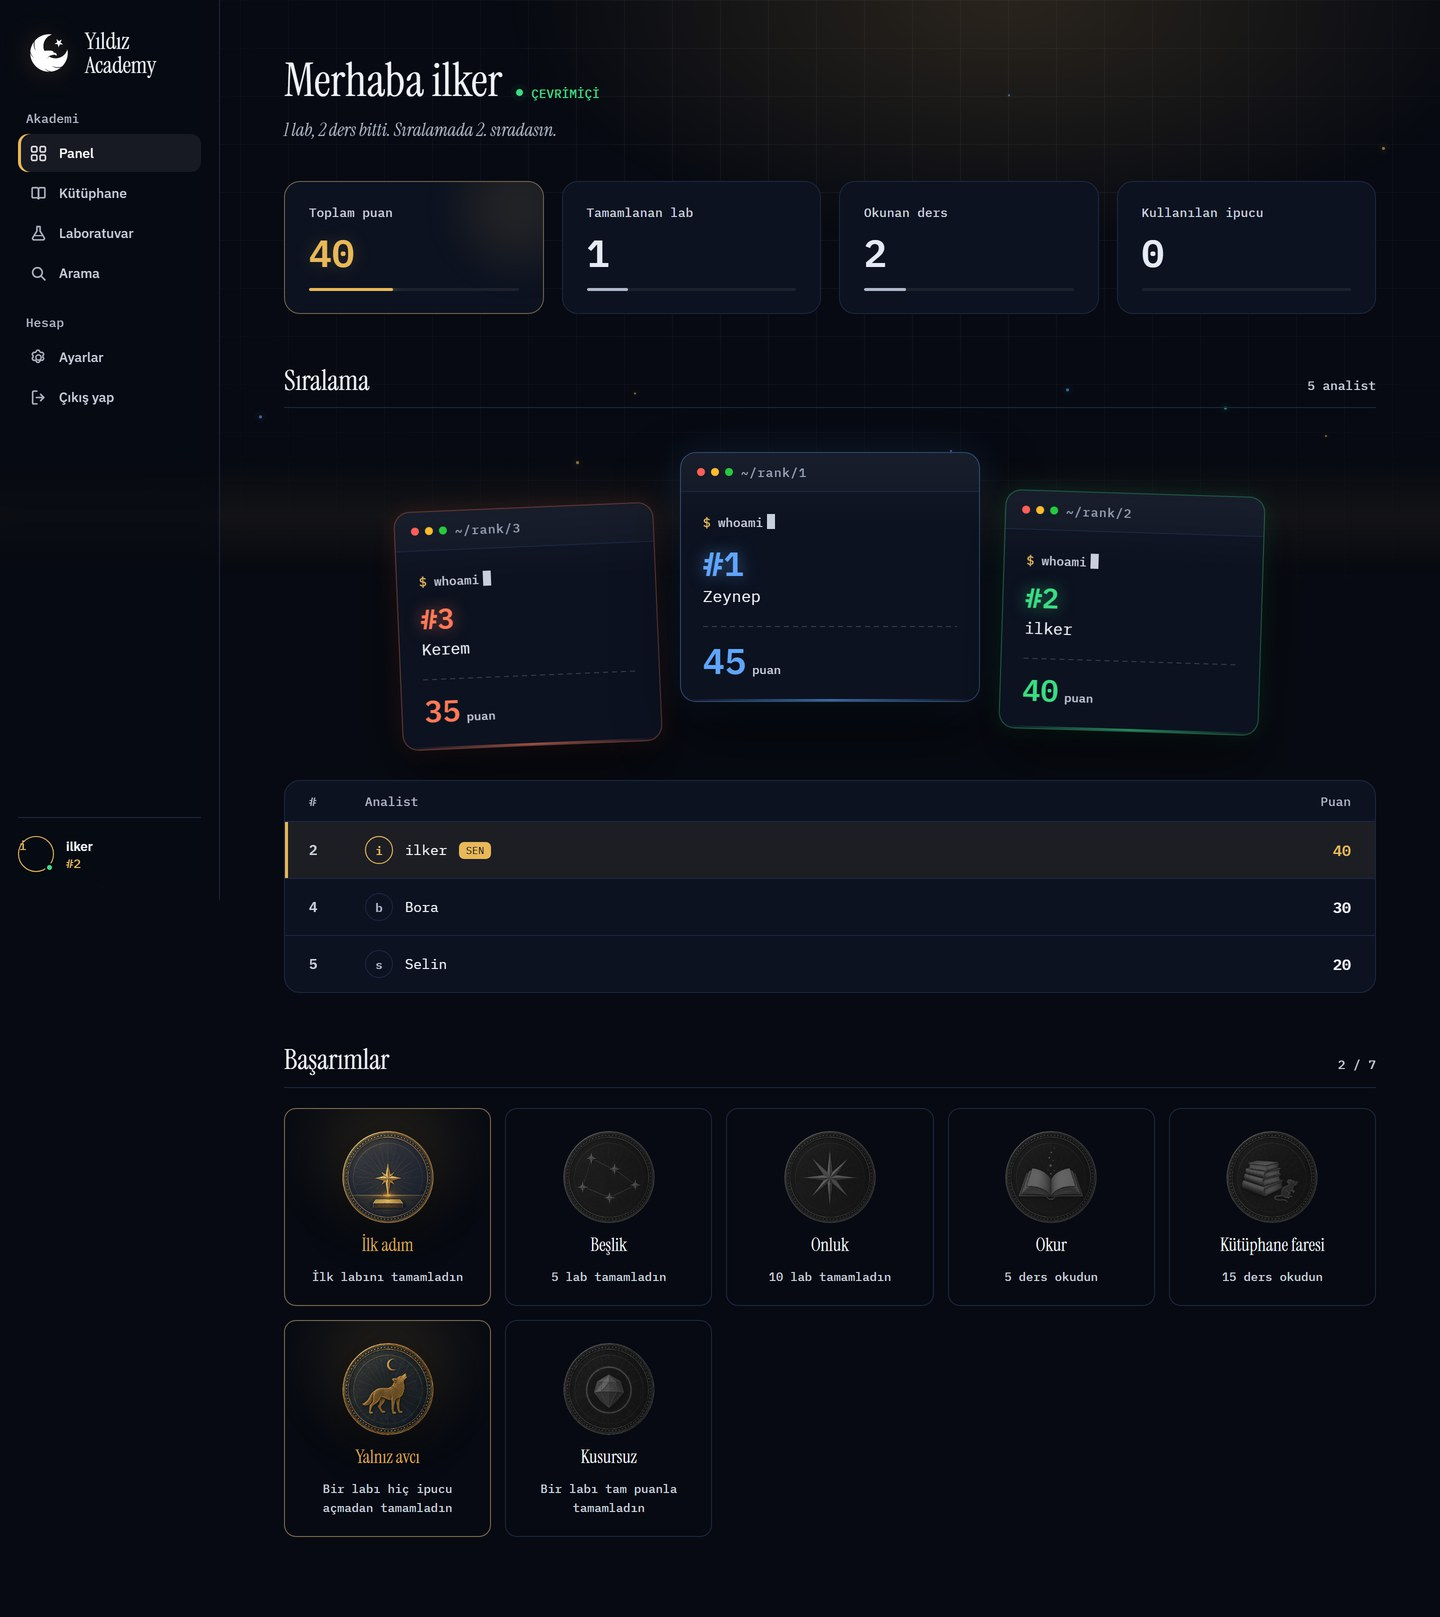
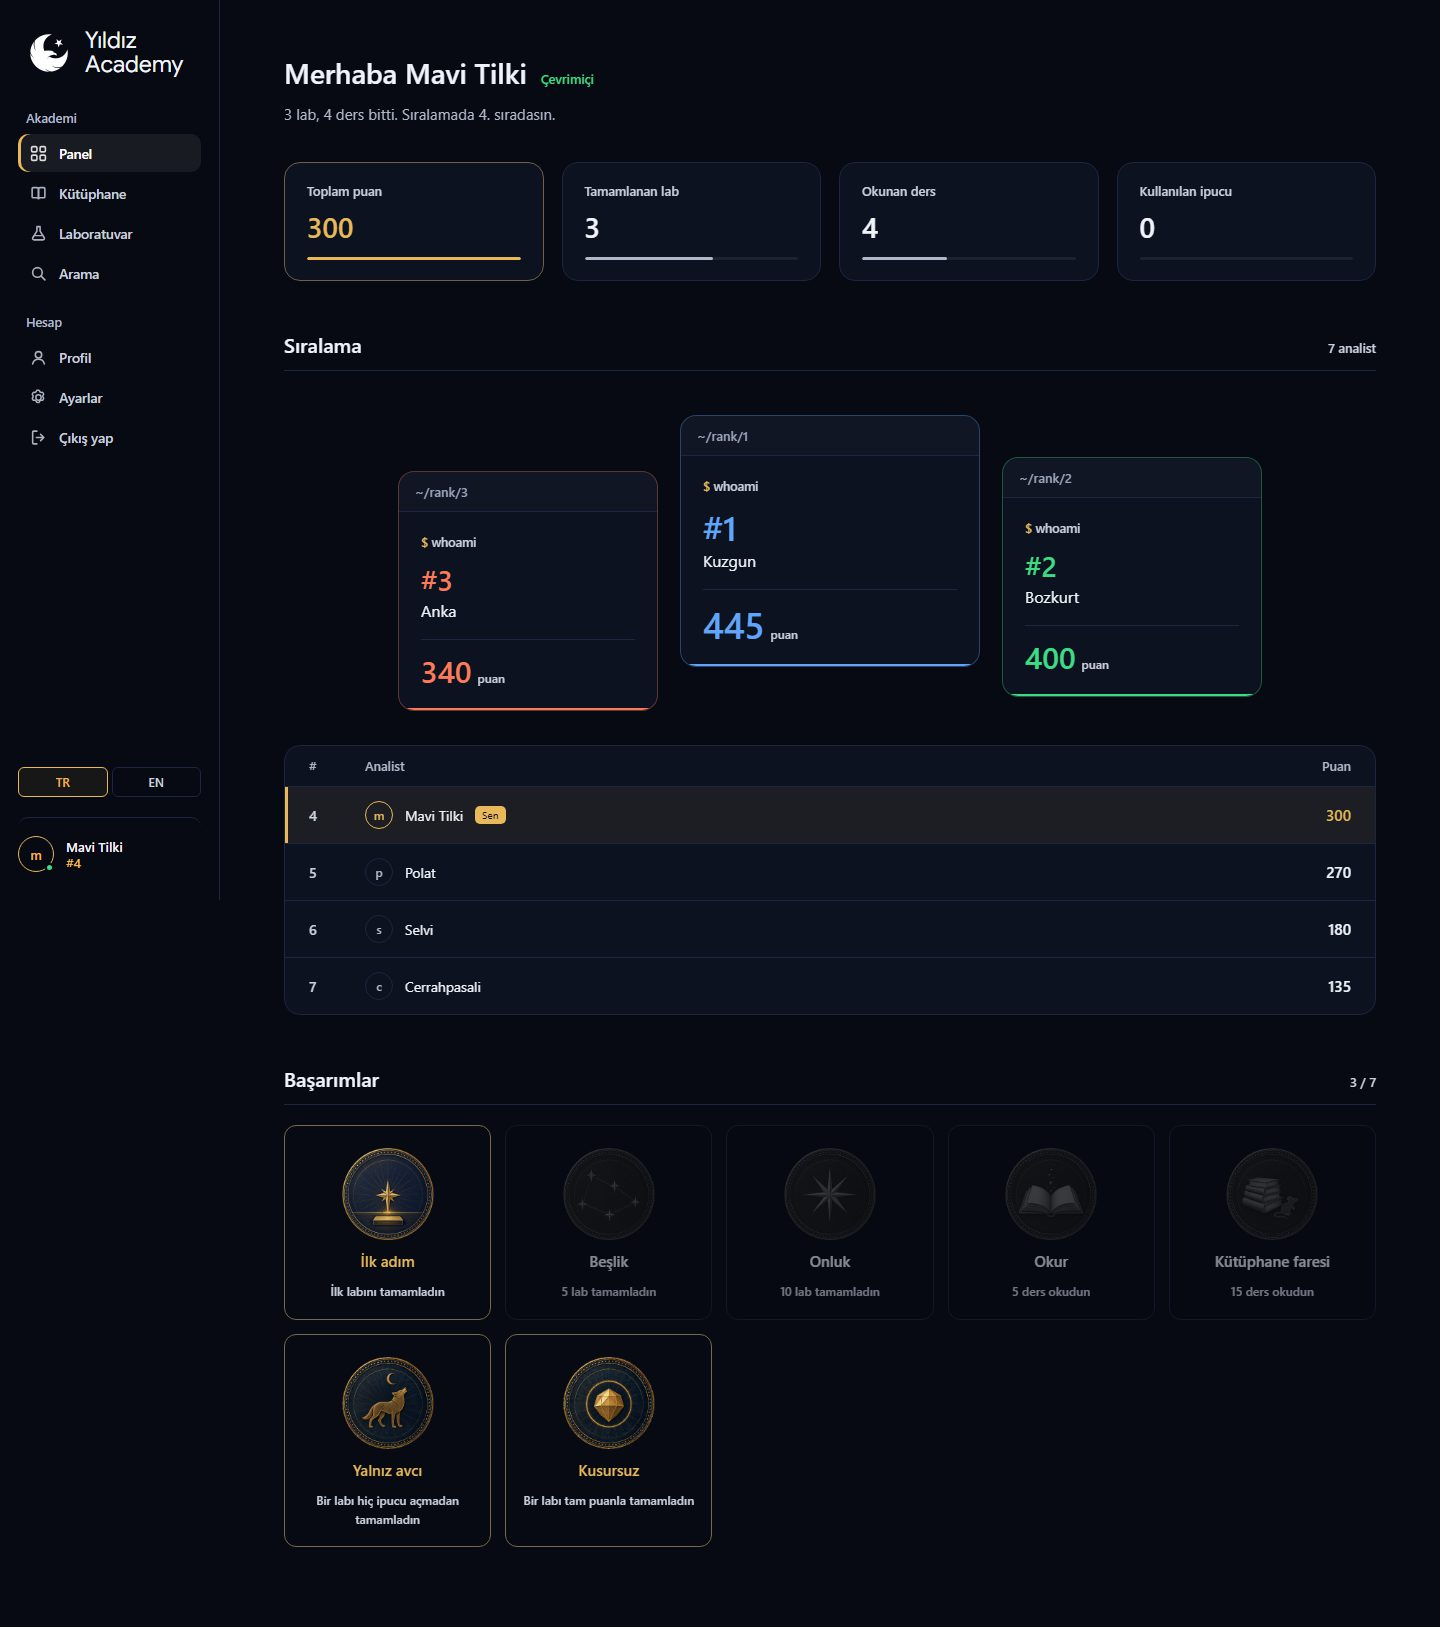
README ve ekran goruntuleri guncellendi

diff --git a/README.md b/README.md
@@ -11,18 +11,30 @@ arkasında.
 ![Açılış sayfası](ekran/hero.jpg)
 
 Panel kişiseldir: sayaçlar, sıralamadaki yerin ve kazanılmış mühürler. Ders ve
-lab listeleri buraya değil, kendi sayfalarına ait. Aşağıdaki görüntüdeki isimler
-ve puanlar örnek veridir.
+lab listeleri buraya değil, kendi sayfalarına ait. Görüntülerdeki isimler ve
+puanlar örnek veridir.
 
 ![Panel](ekran/panel.jpg)
+
+Her kullanıcının bir profil sayfası vardır: toplam puan, sıra, başarımlar ve
+tamamlanan laboratuvarlar. Sıralamadaki bir isme tıklayınca o kişinin profili
+açılır. Profil adresi sıralı bir numara değil, her kullanıcıya verilen rastgele
+bir kimliktir (`/profil/voVdffHgEPy8` gibi); adresler tahmin edilip tek tek
+gezilemez. E-posta profilde de görünmez.
+
+![Profil](ekran/profil.jpg)
+
+Arayüz Türkçe ve İngilizcedir. Dil sol menünün altından seçilir ve tarayıcıda
+saklanır; hata mesajları ve parola sıfırlama e-postası da seçilen dilde gelir.
 
 ## Yığın
 
 FastAPI · Jinja2 · SQLAlchemy 2 · SQLite · Argon2id · Vanilla JS
 
-Node çalışma zamanı bağımlılığı yoktur. `static/css/tokens.css` dosyası
-`design/tokens.json` içinden üretilmiştir ama üreteç depoda değil; token
-değişirse şu an CSS'i elle güncellemek gerekiyor.
+Node çalışma zamanı bağımlılığı yoktur. Giriş sonrası arayüzün renkleri ve
+yazı tipleri `static/css/tokens.css` içindedir ve elle düzenlenir.
+`design/tokens.json` ilk tasarımın token kaynağıdır; açılış sayfası bu setin
+karşılığı olan `landing-tokens.css` üzerinde çalışır.
 
 ## Kurulum
 
@@ -55,21 +67,25 @@ uvicorn app.main:app --reload
 
 Yönetici hesabı açılmadan `/academy/admin` kapısı çalışmaz.
 
+Uygulama açılırken veritabanı şemasını kendisi günceller: eski bir `yildiz.db`
+dosyasında eksik kolon ve tablo varsa ekler, elle `ALTER TABLE` gerekmez.
+
 ## Yapı
 
 | Yol | Ne |
 |---|---|
-| `app/models.py` | 12 tablo: içerik, kimlik, ilerleme |
+| `app/models.py` | 13 tablo: içerik, kimlik, ilerleme |
 | `app/routers/` | Sayfalar, kimlik, ders, lab, yönetim |
-| `app/services/` | Cevap doğrulama, puanlama, ilerleme, sıralama, içe aktarma |
+| `app/services/` | Cevap doğrulama, puanlama, ilerleme, sıralama, içe aktarma, e-posta |
 | `app/templates/` | Jinja şablonları |
+| `app/i18n.py` | Türkçe ve İngilizce arayüz metinleri |
 | `hesap.py` | Yönetici ve kullanıcı hesabı açma aracı |
 | `seed.py` | `content/` klasörünü veritabanına basar |
 | `content/dersler/*.md` | Ders kaynakları, frontmatter + Markdown |
 | `content/lablar/*.yaml` | Lab tanımları: adımlar, ipuçları, çözüm |
-| `design/tokens.json` | Tasarım token kaynağı, tek gerçek kaynak |
-| `static/css/tokens.css` | Üretilmiş CSS değişkenleri, elle düzenlenmez |
-| `static/css/base.css` | Temel katman, yalnızca `var()` kullanır |
+| `design/tokens.json` | İlk tasarımın token kaynağı |
+| `static/css/tokens.css` | Giriş sonrası arayüzün renk ve yazı tipi değişkenleri |
+| `static/css/base.css` | Temel katman: tipografi, düğme, form, kart |
 | `static/css/app.css` | Giriş sonrası arayüz |
 | `static/css/landing.css` | Açılış sayfası, kendi token seti üzerinde |
 | `static/img/muhur/` | Yedi başarım rozeti; dosya adı rozetin `slug` alanıyla eşleşir |
@@ -89,7 +105,8 @@ adımın kendi sorusu, cevabı, ipuçları ve puanı vardır. Adımlar sıralıd
 atlanamaz.
 
 Cevap tipleri `exact`, `regex` ve `choice`. Doğrulama yalnızca sunucuda yapılır;
-doğru cevap hiçbir şablona, hiçbir JSON yanıtına girmez.
+doğru cevap hiçbir şablona, hiçbir JSON yanıtına girmez. `regex` cevabın
+tamamıyla eşleşmelidir, desenin yalnızca başı tutan cevap doğru sayılmaz.
 
 Laboratuvar listesi önce `order_index`, sonra başlık sırasına göre dizilir.
 Alan lab dosyasında isteğe bağlıdır ve varsayılanı `0`; küçük değer öne geçer,
@@ -109,6 +126,13 @@ Lab her zaman sıfırlanıp baştan çözülebilir. Ama `lab_progress.solution_s
 bayrağı sıfırlamada silinmez: çözüm metnini bir kez gören kullanıcı o labdan
 bir daha puan kazanamaz. Lab tekrar çözülebilir, sıralamaya 0 yazar.
 
+Açılan ipuçları da sıfırlamada silinmez. İpucuyla cevabı öğrenip labı
+sıfırlayan kullanıcı cezadan kurtulamaz.
+
+Sıralama, toplam puan ve başarımlar her lab için alınan en yüksek puana bakar
+(`best_points`). Sonraki bir deneme daha düşük puanla biterse en yüksek puan
+yerinde kalır.
+
 ## Kimlik
 
 Görünen ad tek kamusal kimliktir ve 30 günde bir değiştirilebilir. E-posta bir
@@ -116,6 +140,22 @@ kimlik değil, bir giriş anahtarıdır: sıralamada, panelde ve kullanıcıya d
 hiçbir yanıtta geçmez, yalnızca sahibinin ayarlar sayfasında görünür.
 
 Giriş hatası hangi alanın yanlış olduğunu söylemez.
+
+## Güvenlik
+
+- Her yanıtta `X-Frame-Options: DENY`, `nosniff`, `Referrer-Policy` ve
+  `frame-ancestors 'none'` içeren bir CSP gider; site başka bir sayfaya
+  çerçeve olarak gömülemez.
+- Başka bir siteden gelen POST istekleri (`Origin` veya `Sec-Fetch-Site`
+  uyuşmazsa) reddedilir. 2 MB'tan büyük istek gövdeleri kabul edilmez.
+- Giriş, kayıt, parola sıfırlama ve cevap denemeleri IP başına hız
+  sınırına tabidir. IP, bağlantının kendisinden alınır; `X-Forwarded-For`
+  başlığına güvenilmez. Uygulama bir ters proxy arkasında çalışacaksa
+  uvicorn `--proxy-headers --forwarded-allow-ips <proxy-ip>` ile başlatılmalı,
+  yoksa bütün kullanıcılar tek IP sayılır.
+- Giriş sonrası `next` yönlendirmesi yalnızca site içi yollara izin verir.
+- Üretimde `.env` içinde `COOKIE_SECURE=1` olmalı; çerezler yalnızca HTTPS
+  üzerinden gider.
 
 ## Yönetim
 
@@ -141,8 +181,13 @@ gönderilmez, bağlantı sunucu günlüğüne yazılır; yerel geliştirmede bu 
 
 ## Fontlar
 
-`static/fonts/` altındaki Stokeda demo sürümü ve Hemmet kişisel kullanım
-lisanslıdır. Ticari yayın kararı verilirse lisans alınacak veya font
-değiştirilecek. Stokeda'nın demo sürümünde rakamlar yoktur, her rakamın yerine
-üreticinin filigranı basılır; sayı gösteren yerlerde bu yüzden mono font
-kullanılıyor.
+Giriş sonrası arayüz sistem yazı tipi yığınını kullanır
+(`"Atlassian Sans", ui-sans-serif, -apple-system, "Segoe UI", ...`); Windows'ta
+Segoe UI olarak görünür. Sol üstteki "Yıldız Academy" yazısı Google Sans'tır.
+Hash ve kod gibi teknik veriler eş genişlikli yazı tipindedir.
+
+`static/fonts/` altındaki Stokeda demo sürümü ve Hemmet yalnızca açılış
+sayfasında kullanılır ve kişisel kullanım lisanslıdır. Ticari yayın kararı
+verilirse lisans alınacak veya font değiştirilecek. Stokeda'nın demo sürümünde
+rakamlar yoktur, her rakamın yerine üreticinin filigranı basılır; rakam
+gösterecek bir yerde bu font kullanılmamalı.
